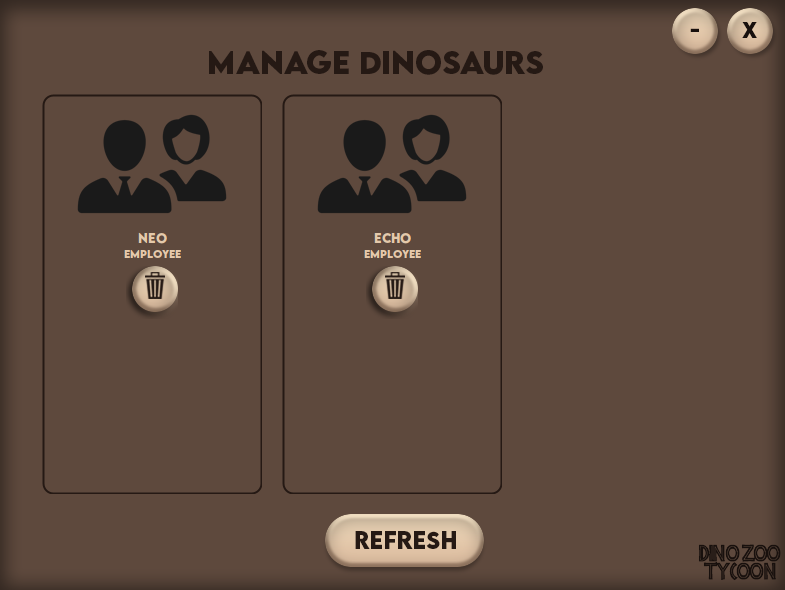
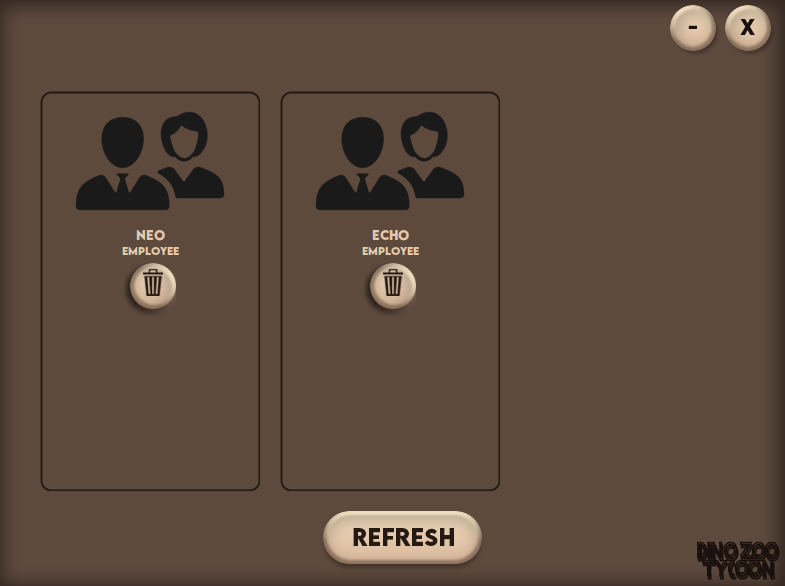
:arrow_up: update: README.md & Mng Employee Panel

diff --git a/src/views/panels/ListEmployeePanel.java b/src/views/panels/ListEmployeePanel.java
@@ -31,7 +31,7 @@ public class ListEmployeePanel extends JFrame {
         setDefaultCloseOperation(JFrame.DISPOSE_ON_CLOSE);
         setLocationRelativeTo(parentFrame);
 
-        ImageBackgroundPanel backgroundPanel = new ImageBackgroundPanel("src/resources/backgrounds/manage-bg.png");
+        ImageBackgroundPanel backgroundPanel = new ImageBackgroundPanel("src/resources/backgrounds/bg.png");
         backgroundPanel.setLayout(null);
 
         ImageIcon imageIcon = new ImageIcon("src/resources/utils/watermark.png");

diff --git a/README.md b/README.md
@@ -24,7 +24,7 @@ Here are some screens of the game, where it is generally possible to perform CRU
 
 <img src="helpers\rdmeresources\Manage Employees.png" alt="Manage Employees" width="600px">
 
-- **Manage Visitos**
+- **Manage Visitors**
 
 <img src="helpers\rdmeresources\Manage Visitors.png" alt="Manage Visitors" width="600px">
 
